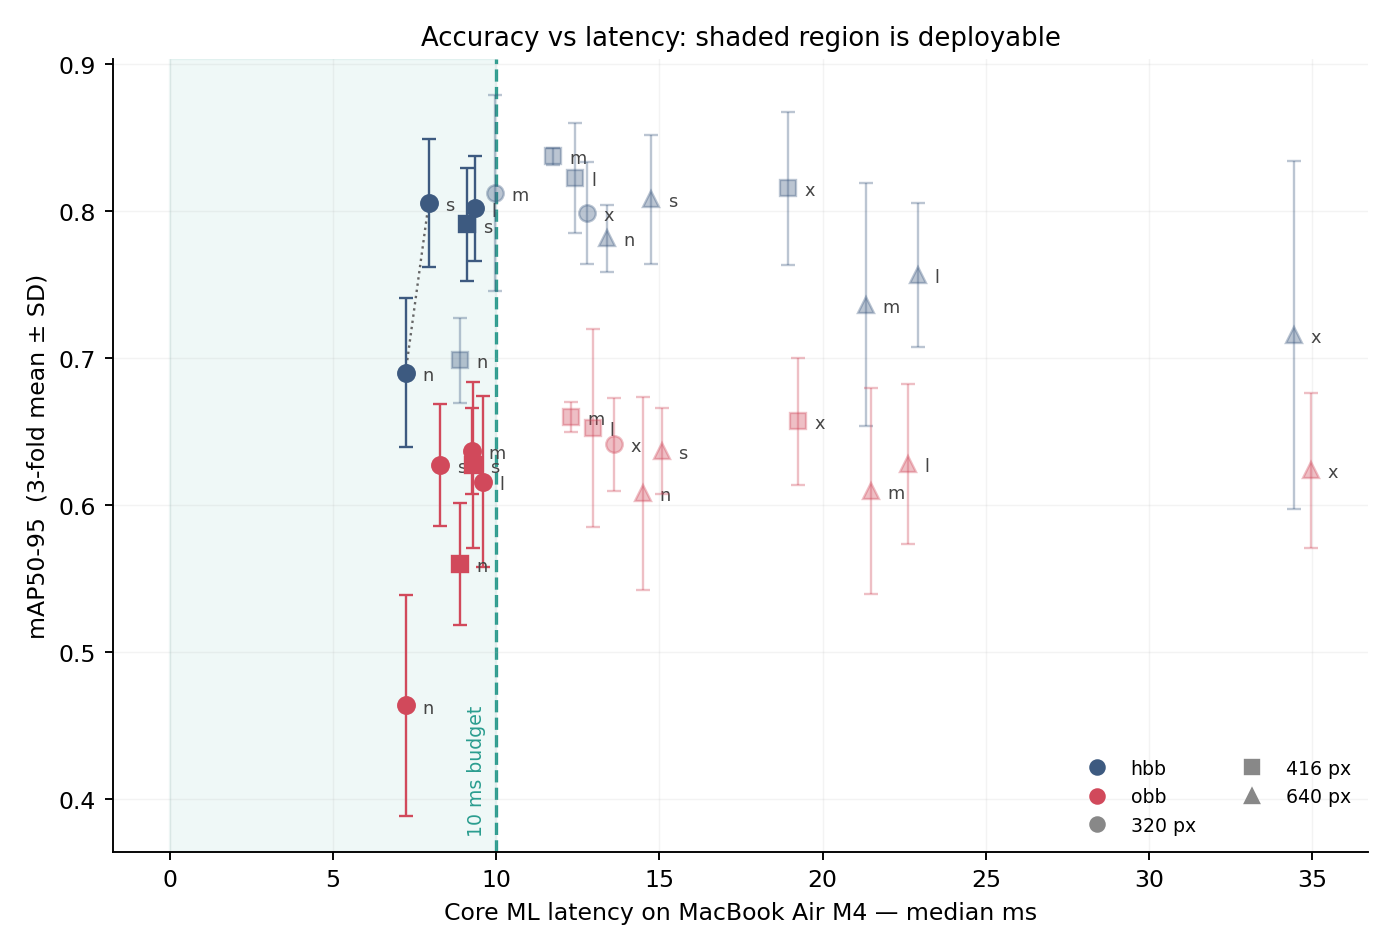
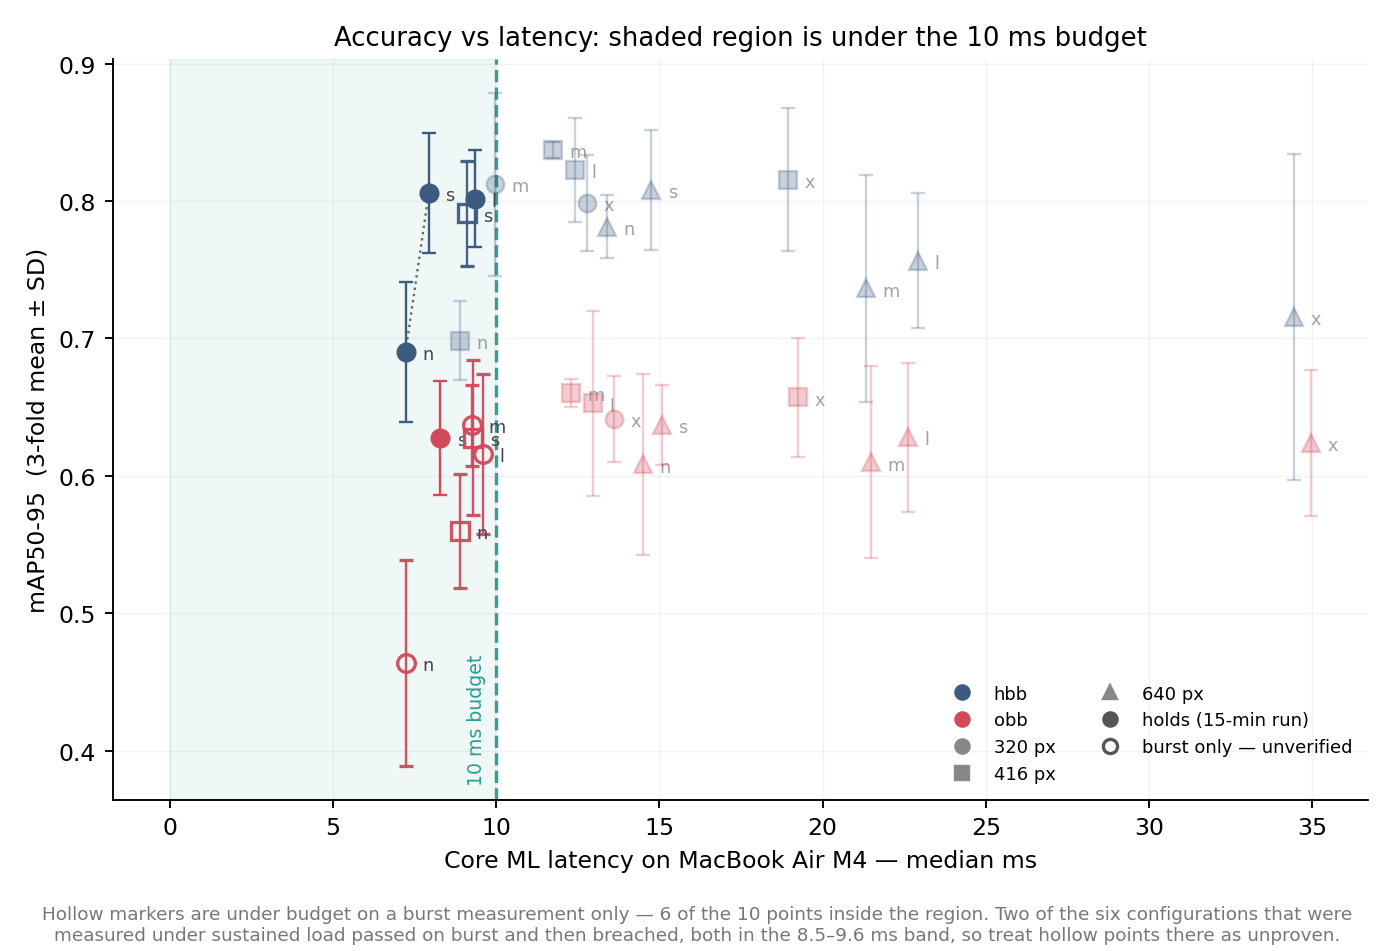
tradeoff.png: distinguish sustained-verified points from burst-only ones
An audit of all 30 plotted points against the source data found zero
numerical mismatches -- every point sits at the right latency and
accuracy, and the deployable flags match the underlying verdicts.

But the figure showed 10 points inside the budget region with identical
visual weight, and only 4 of those are backed by a 15-minute sustained
run. The other 6 were under budget on a 100-iteration burst only.

That overstates the evidence, and this study's own data says by how
much: of the six configurations measured under sustained load, TWO
passed on burst and then breached -- hbb-n@416 (burst 8.57) and
hbb-m@320 (burst 9.32). Four of the six unverified sub-10 ms points sit
in that same 8.5-9.6 ms band.

Markers now carry three evidence levels: filled = measured under
sustained load and holds; hollow = under budget on burst only,
unverified; faded = fails. Caption states the counts and the band where
the two observed flips occurred.

Regenerated family_comparison, which shares the same point data.

diff --git a/scripts/tradeoff.py b/scripts/tradeoff.py
@@ -172,12 +172,26 @@ def main():
 
     marker = {320: "o", 416: "s", 640: "^"}
     colour = {"hbb": "#3d5a80", "obb": "#d1495b"}
+    # THREE EVIDENCE LEVELS, NOT TWO. A point inside the budget region because a 15-minute
+    # sustained run says so is not the same claim as one inside it because a 100-iteration
+    # burst says so. Of the six configurations measured under sustained load, TWO passed on
+    # burst and then breached (hbb-n@416 at 8.57, hbb-m@320 at 9.32) -- and four of the
+    # unverified sub-10 ms points sit in that same 8.5-9.6 ms band. Filling them identically
+    # would present an inference at the confidence of a measurement.
     for p in pts:
-        ax.errorbar(p["ms"], p["map"], yerr=p["sd"], fmt=marker.get(p["imgsz"], "o"),
-                    color=colour[p["geom"]], ms=7, capsize=3, lw=1,
-                    alpha=1.0 if p["meets"] else 0.35, zorder=3)
+        m = marker.get(p["imgsz"], "o")
+        c = colour[p["geom"]]
+        if p["meets"] and p["sustained"]:
+            face, alpha, lw = c, 1.0, 1.0          # measured and holds
+        elif p["meets"]:
+            face, alpha, lw = "none", 0.95, 1.4    # burst only -- provisional
+        else:
+            face, alpha, lw = c, 0.28, 1.0         # fails
+        ax.errorbar(p["ms"], p["map"], yerr=p["sd"], fmt=m, mfc=face, mec=c,
+                    ecolor=c, ms=7.5, capsize=3, lw=1, mew=lw, alpha=alpha, zorder=3)
         ax.annotate(f"{p['size']}", (p["ms"], p["map"]), textcoords="offset points",
-                    xytext=(7, -3), fontsize=7.5, color="#444")
+                    xytext=(7, -3), fontsize=7.5, color="#444",
+                    alpha=1.0 if p["meets"] else 0.5)
     if len(front) > 1:
         ax.plot([p["ms"] for p in front], [p["map"] for p in front],
                 color="#666", lw=1, ls=":", zorder=2)
@@ -190,14 +204,26 @@ def main():
                for g in ("hbb", "obb")]
     handles += [plt.Line2D([], [], color="#888", marker=m, ls="", label=f"{z} px")
                 for z, m in marker.items()]
-    ax.legend(handles=handles, fontsize=8, frameon=False, loc="lower right", ncol=2)
+    handles += [
+        plt.Line2D([], [], color="#555", marker="o", ls="", label="holds (15-min run)"),
+        plt.Line2D([], [], color="#555", marker="o", ls="", mfc="none", mew=1.4,
+                   label="burst only — unverified"),
+    ]
+    ax.legend(handles=handles, fontsize=7.6, frameon=False, loc="lower right", ncol=2)
     ax.set_xlabel("Core ML latency on MacBook Air M4 — median ms")
     ax.set_ylabel("mAP50-95  (3-fold mean ± SD)")
-    ax.set_title("Accuracy vs latency: shaded region is deployable", fontsize=11)
+    ax.set_title("Accuracy vs latency: shaded region is under the 10 ms budget", fontsize=11)
+    n_unv = sum(1 for p in pts if p["meets"] and not p["sustained"])
+    fig.text(0.5, 0.012,
+             f"Hollow markers are under budget on a burst measurement only — {n_unv} of the "
+             f"{sum(1 for p in pts if p['meets'])} points inside the region. Two of the six "
+             f"configurations that were\nmeasured under sustained load passed on burst and then "
+             f"breached, both in the 8.5–9.6 ms band, so treat hollow points there as unproven.",
+             ha="center", fontsize=7.8, color="#777")
     for s in ("top", "right"):
         ax.spines[s].set_visible(False)
     ax.grid(alpha=0.15, lw=0.6)
-    fig.tight_layout()
+    fig.tight_layout(rect=[0, 0.055, 1, 1])
     args.out.parent.mkdir(parents=True, exist_ok=True)
     fig.savefig(args.out, dpi=170)
     print(f"\nwrote {args.out}\nwrote {args.table}")
